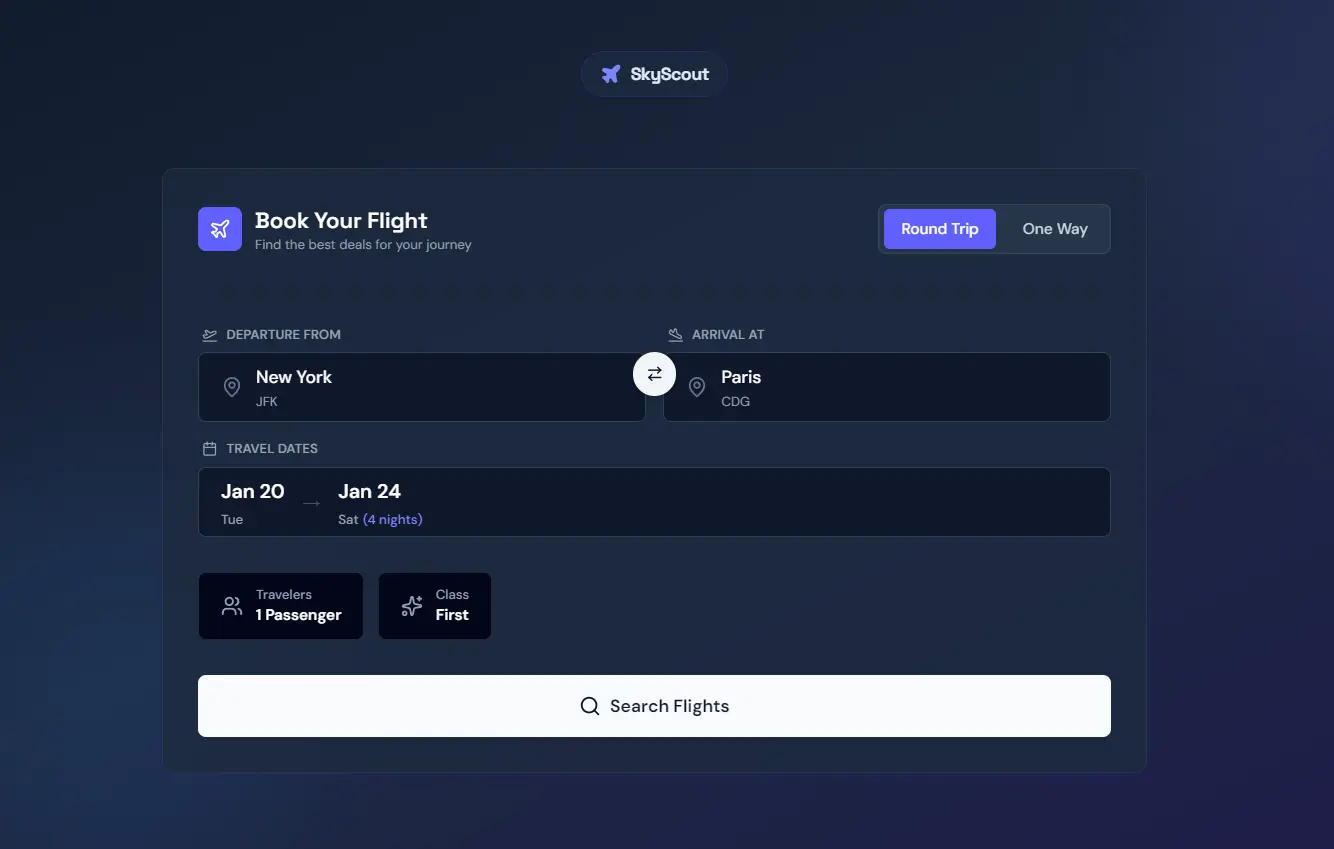
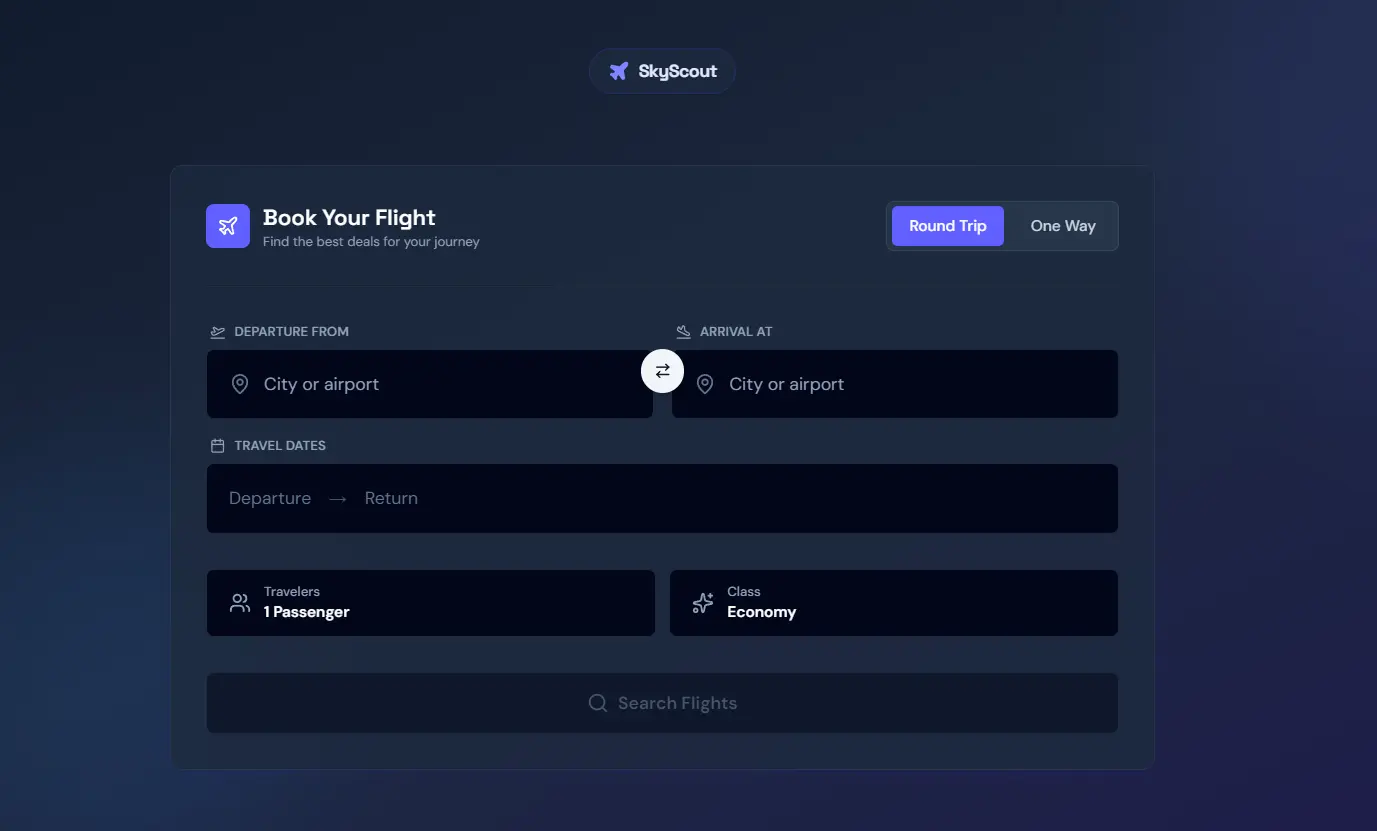
feat: update FlightSearchForm layout to use full-width grid for passengers and cabin selection

diff --git a/components/features/search/FlightSearchForm.tsx b/components/features/search/FlightSearchForm.tsx
@@ -527,10 +527,10 @@ export const FlightSearchForm = React.forwardRef<FlightSearchFormRef, FlightSear
                         </div>
                     </div>
 
-                    {/* Passengers & Cabin */}
-                    <div className="flex flex-col sm:flex-row flex-wrap gap-2 sm:gap-3">
+                    {/* Passengers & Cabin - Full Width Grid */}
+                    <div className="grid grid-cols-1 sm:grid-cols-2 gap-2 sm:gap-3">
                         <Popover>
-                            <PopoverTrigger className="flex items-center gap-2 sm:gap-3 px-3 sm:px-5 py-2.5 sm:py-3 rounded-lg bg-white dark:bg-slate-950 hover:bg-slate-50 dark:hover:bg-slate-900 border border-slate-200 dark:border-slate-800 transition-colors flex-1 sm:flex-none">
+                            <PopoverTrigger className="flex items-center gap-2 sm:gap-3 px-3 sm:px-5 py-2.5 sm:py-3 rounded-lg bg-white dark:bg-slate-950 hover:bg-slate-50 dark:hover:bg-slate-900 border border-slate-200 dark:border-slate-800 transition-colors w-full">
                                     <Users className="w-4 sm:w-5 h-4 sm:h-5 text-slate-600 dark:text-slate-400" />
                                     <div className="flex flex-col items-start">
                                         <span className="text-xs text-slate-500 dark:text-slate-400 font-medium">Travelers</span>
@@ -563,7 +563,7 @@ export const FlightSearchForm = React.forwardRef<FlightSearchFormRef, FlightSear
                         </Popover>
 
                         <Popover>
-                            <PopoverTrigger className="flex items-center gap-2 sm:gap-3 px-3 sm:px-5 py-2.5 sm:py-3 rounded-lg bg-white dark:bg-slate-950 hover:bg-slate-50 dark:hover:bg-slate-900 border border-slate-200 dark:border-slate-800 transition-colors flex-1 sm:flex-none">
+                            <PopoverTrigger className="flex items-center gap-2 sm:gap-3 px-3 sm:px-5 py-2.5 sm:py-3 rounded-lg bg-white dark:bg-slate-950 hover:bg-slate-50 dark:hover:bg-slate-900 border border-slate-200 dark:border-slate-800 transition-colors w-full">
                                 <Sparkles className="w-4 sm:w-5 h-4 sm:h-5 text-slate-600 dark:text-slate-400" />
                                 <div className="flex flex-col items-start">
                                     <span className="text-xs text-slate-500 dark:text-slate-400 font-medium">Class</span>
